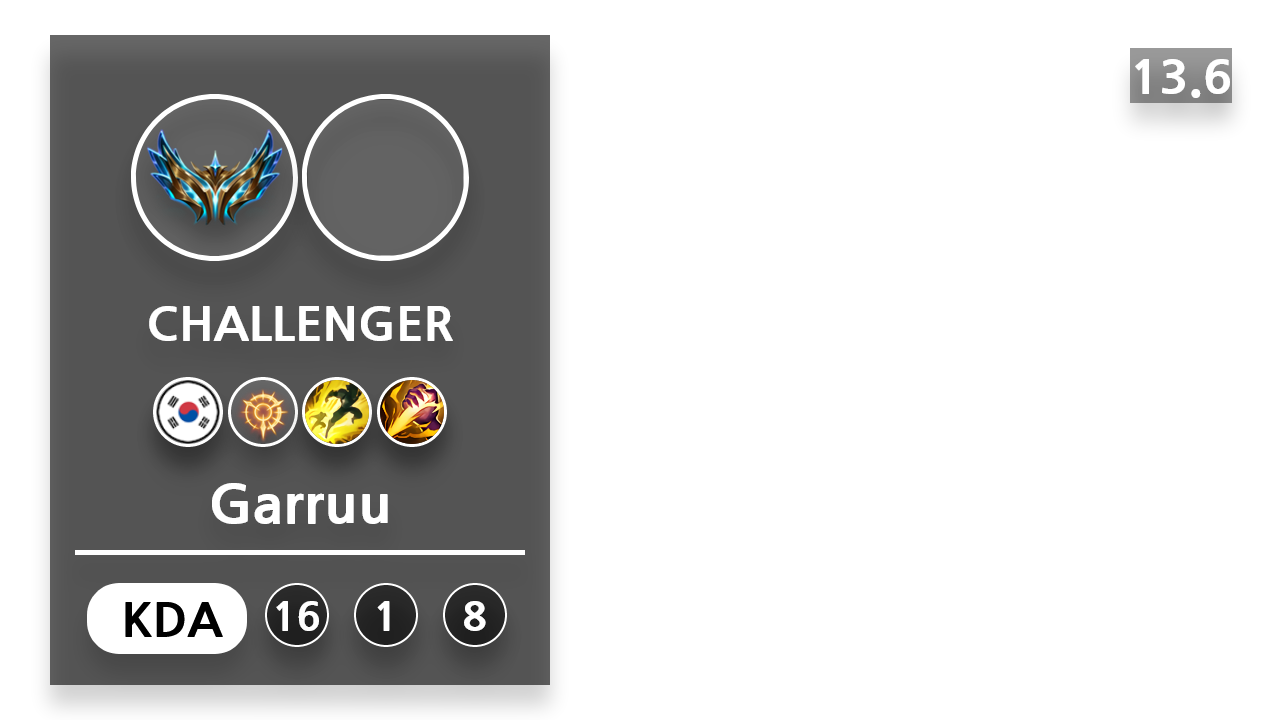
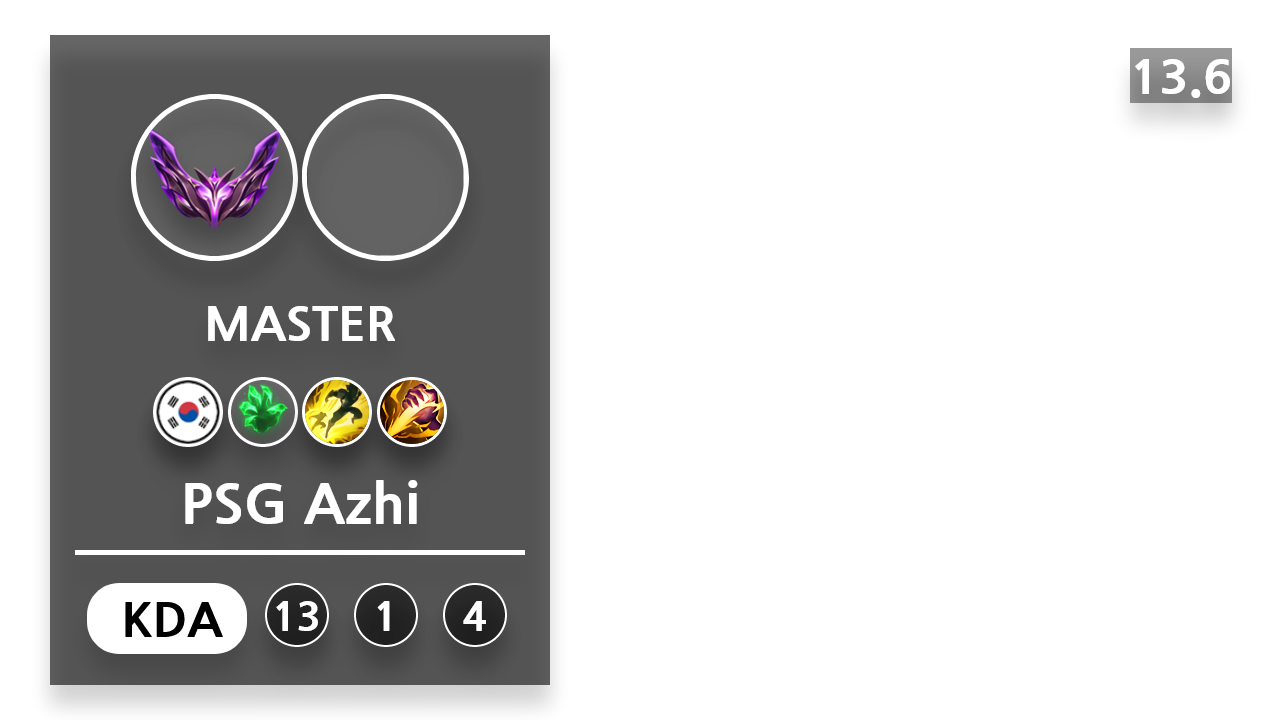
changed

diff --git a/assets/thumbnail.html b/assets/thumbnail.html
@@ -12,7 +12,7 @@
             font-family: 'Nanum Gothic', sans-serif;
         }
         .container {
-            background-image: url('https://ddragon.leagueoflegends.com/cdn/img/champion/splash/Leesin_0.jpg');
+            background-image: url('https://ddragon.leagueoflegends.com/cdn/img/champion/splash/Wukong_0.jpg');
             background-size: cover;
             width: 1280px;
             height: 720px;
@@ -144,28 +144,28 @@
     <div class="container">
         <div class="frame">
             <div class="mainplayers">
-                <img class="players1" src='https://lolg-cdn.porofessor.gg/img/s/league-icons-v3/160/9.png'>
-                <img class="players1" src='https://opgg-static.akamaized.net/meta/images/lol/champion/Leesin.png'/>
+                <img class="players1" src='https://lolg-cdn.porofessor.gg/img/s/league-icons-v3/160/7.png'>
+                <img class="players1" src='https://opgg-static.akamaized.net/meta/images/lol/champion/Wukong.png'/>
             </div>
             <div class="challenger">
-                <p>CHALLENGER</p>
+                <p>MASTER</p>
             </div>
             <div class="playerlist">
                 <img class="players" src='../assets/img/kr.png'/>
-                <img class="players" src='https://www.mobafire.com/images/reforged-rune/Press-the-Attack.png'/>
+                <img class="players" src='https://www.mobafire.com/images/reforged-rune/Grasp-of-the-Undying.png'/>
                 <img class="players" src='../assets/img/spell/Flash.png'/>
                 <img class="players" src='../assets/img/spell/Smite.png'/>
             </div>
             <div class="match">
-                <p class="mvp">Garruu</p>
+                <p class="mvp">PSG Azhi</p>
             </div>
             <hr class="line"/>
             <div class="bottom" style='display:flex'>
                 <p class="kdatext">KDA</p>
                 <p >
-                    <p class="kda">16 </p>
+                    <p class="kda">13 </p>
                     <p class="kda"> 1 </p>
-                    <p class="kda"> 8</p>
+                    <p class="kda"> 4</p>
                 </p>
             </div>
         </div>

diff --git a/video_maker/usecases/record_video.py b/video_maker/usecases/record_video.py
@@ -15,10 +15,19 @@ class RecordVideo:
     def record(self):
         # self.__show_mouse_position()
         print('Starting recording of the match...')
+        self.remove_video_file()
         self.__run_game()
         self.__run_obs()
         sleep(50)
-                
+        # Get the size of the screen
+        screen_width, screen_height = pydirectinput.size()
+
+        # Calculate the center of the screen
+        center_x = int(screen_width / 2)
+        center_y = int(screen_height / 2)
+
+        # Click on the center of the screen
+        pydirectinput.click(center_x, center_y)
         pydirectinput.keyDown('n')
         pydirectinput.keyUp('n')
         sleep(1)
@@ -36,19 +45,21 @@ class RecordVideo:
         pydirectinput.keyUp('c')
         sleep(1)
         # zoom out
+
+        # Click on the center of the screen
+        pydirectinput.click(center_x, center_y)
         # Press and hold Ctrl+Shift+Z
         pydirectinput.keyDown('ctrl')
         pydirectinput.keyDown('shift')
         pydirectinput.keyDown('z')
-
-        # Move mouse pointer down 5 times
-        for i in range(5):
-            pydirectinput.moveRel(0, 50)
-
-        # Release all keys
         pydirectinput.keyUp('ctrl')
         pydirectinput.keyUp('shift')
         pydirectinput.keyUp('z')
+        # Move mouse pointer down 5 times
+        pyautogui.scroll(-700)
+
+        # Release all keys
+
         # zoom out end
         
         
@@ -119,5 +130,6 @@ class RecordVideo:
 
     def remove_video_file(self):
         file = os.listdir(self.__video_file_dir)
-        os.rename(os.path.join(self.__video_file_dir, file[0]), os.path.join(
-            os.path.dirname(self.__video_file_dir), 'uploaded', file[0]))
+        for i in range(len(file)):
+            os.rename(os.path.join(self.__video_file_dir, file[i]), os.path.join(
+                os.path.dirname(self.__video_file_dir), 'uploaded', file[i]))

diff --git a/video_maker/entities/data_scrapper.py b/video_maker/entities/data_scrapper.py
@@ -2,8 +2,8 @@ from selenium import webdriver
 from selenium.webdriver.firefox.service import Service as FirefoxService
 from webdriver_manager.firefox import GeckoDriverManager
 from selenium.webdriver.firefox.options import Options
-from selenium.webdriver.firefox.firefox_binary import FirefoxBinary
-from chromedriver_autoinstaller import install as chromedriver_install
+
+
 import os
 class DataScrapper:
     def __init__(self) -> None:

diff --git a/test.py b/test.py
@@ -1,15 +1,3 @@
-import pydirectinput
+import pyautogui
 
-# Press and hold Ctrl+Shift+Z
-pydirectinput.keyDown('ctrl')
-pydirectinput.keyDown('shift')
-pydirectinput.keyDown('z')
-
-# Move mouse pointer down 5 times
-for i in range(5):
-    pydirectinput.moveRel(0, 50)
-
-# Release all keys
-pydirectinput.keyUp('ctrl')
-pydirectinput.keyUp('shift')
-pydirectinput.keyUp('z')
+# Simulate mouse wheel down input

diff --git a/video_maker/main.py b/video_maker/main.py
@@ -14,6 +14,7 @@ thumb_creator.create_thumbnail()
 
 video_recorder = RecordVideo(lol_data)
 video_file_name = video_recorder.record()
+# # video_file_name = video_recorder.select_video_file()
 
 youtube_uploader = UploadYoutube(lol_data, video_file_name)
 youtube_uploader.upload_video()
